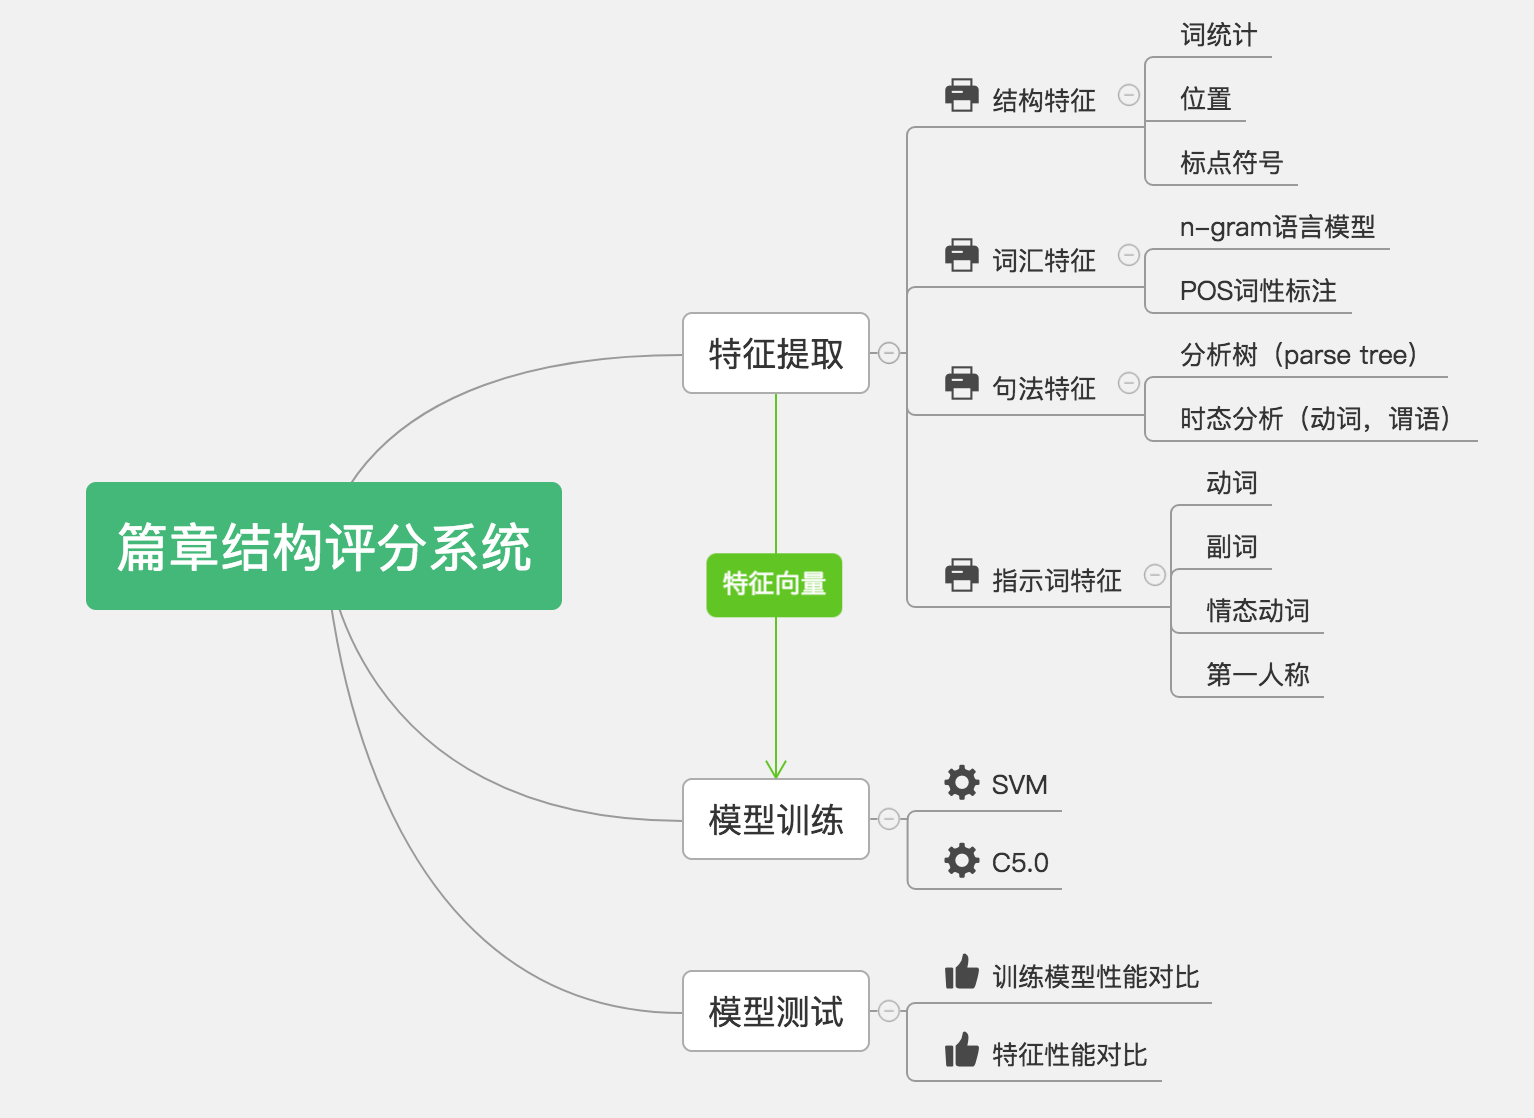
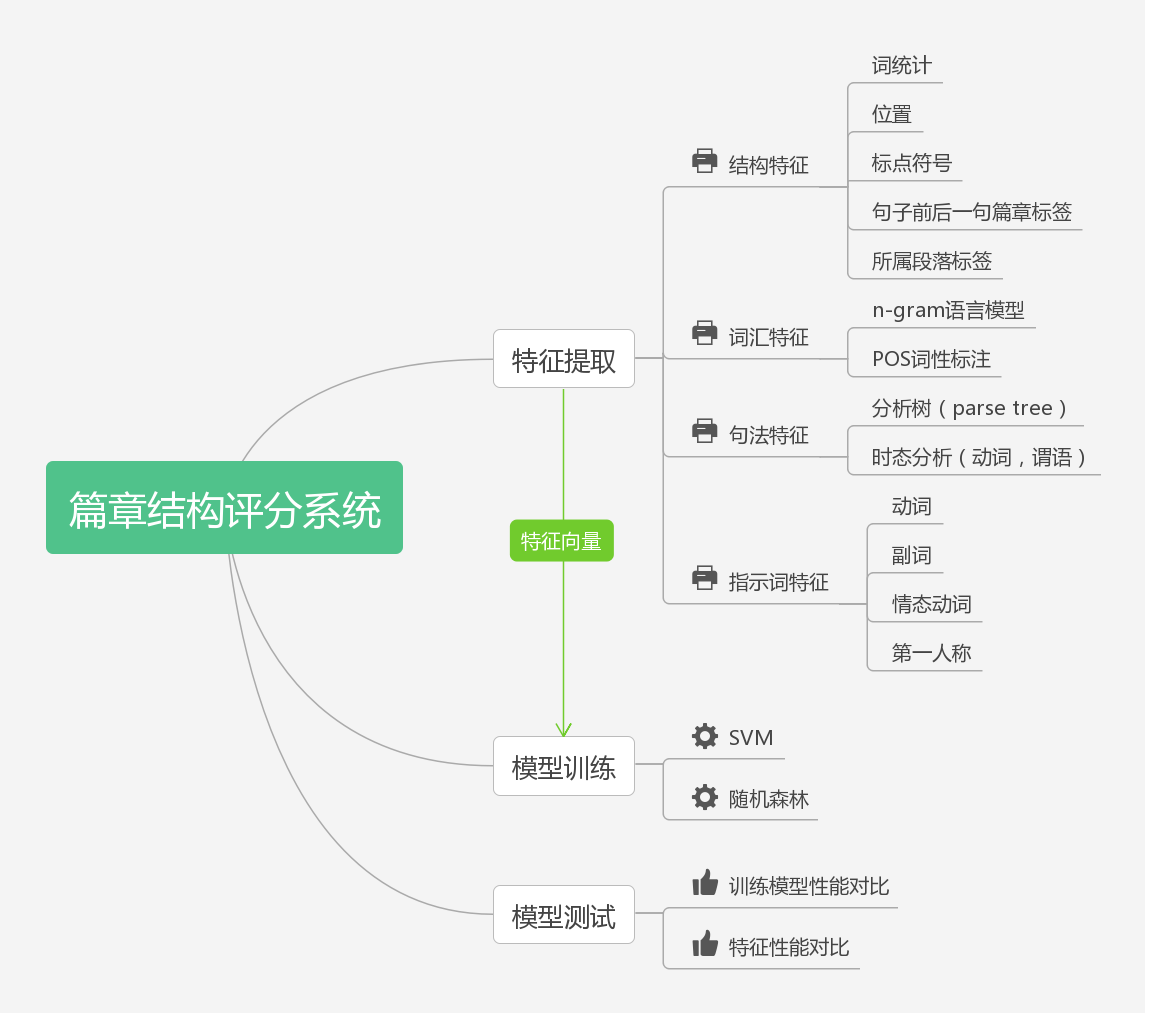
修改README和增加分析树图片

diff --git a/README.md b/README.md
@@ -11,15 +11,17 @@
 
 ## 三、总体流程
 
+### 3.1 篇章结构标签介绍
+
 目前的方案主要是判断篇章结构的完整度，一个完整的议论文文章应该包含以下篇章结构：
 
-### 3.1 开头段
+#### 3.1.1 开头段
 
 * 背景（background）：\<BG>\</BG>
 * 观点（point）：\<PT>\</PT>
 * 过渡句（transition）：\<TST>\</TST>
 
-### 3.2 理由段
+#### 3.1.2 理由段
 
 * 理由（reason）：\<RS>\</RS>
 * 理由解释（reason explanation）：\<REXP>\</REXP>
@@ -27,17 +29,17 @@
 * 例子解释（example explanation）：\<EEXP>\</EEXP>
 * 例子泛化（generalization）：\<GRL>\</GRL>
 
-### 3.3 让步段
+#### 3.1.3 让步段
 
 * 承认对方优点（admission）：\<ADM>\</ADM>
 * 反驳对方观点（retort）：\<RTT>\</RTT>
 
-### 3.4 总结段
+#### 3.1.4 总结段
 
 * 理由总结（sum reason）：\<SRS>\</SRS>
 * 观点重申（reaffirm）：\<RAFM>\</RAFM>
 
-### 3.5 无关段
+#### 3.1.5 无关段
 （与文章无关的句子，有没有这部分都不影响篇章结构分数）
 
 * 与文章无关（irrelevant）：\<IRL>\</IRL>
@@ -46,27 +48,33 @@
 
 篇章结构评分系统思维导图见image目录下的“篇章结构评分系统思维导图.png”
 
-### 3.6 特征提取
+### 3.2 特征提取
 
-#### 3.6.1 对于结构特征：
+#### 3.2.1 对于结构特征：
 
 * 利用NLTK对句子进行词分割，进而统计句子中词的个数;
 * 以段落的句子结束的标点符号进行分割句子，位置特征由两部分组成：句子所在段落位置和句子在段落中的位置；
-* 标点符号特征分为三类：句号、问号和感叹号。
+* 标点符号特征分为三类：句号、问号和感叹号；
+* 依据评分经验，我们将当前句子前后一句的篇章结构标签作为该句子的一个篇章结构特征，文章首句的前一个句子和末尾句的后一个句子的篇章结构标签设为0；
+* 设置句子所属段落标签：开头、理由、让步、总结。
 
-#### 3.6.2 对于词汇特征：
+#### 3.2.2 对于词汇特征：
 
 * 使用SRILM中的n-gram工具来训练语言模型，分别对不同类别的篇章结构进行训练，构建n-gram训练模型，然后再计算某个句子属于不同类别篇章结构的概率，将这个概率作为一个数值特征；
 * 使用NLTK中的POS工具对句子中的单词进行词性标注。
 
-#### 3.6.3 对于句法特征：
+#### 3.2.3 对于句法特征：
 
 * 使用NLTK中的Stanford分析器构建分析树（分析树图见image目录下的“分析树图.png”），我们提取分析树的深度作为一个数值特征，分析树如下图3所示；
 * 我们主要以一个句子中的动词和谓语的时态作为句子的时态，而动词和谓语的时态识别可以由词性标注步骤来完成。
 
-#### 3.6.4 对于指示词特征：
+#### 3.2.4 对于指示词特征：
 
 * 将一个句子中的动词、副词、情态动词以及第一人称代词与事先归纳的指示词表进行对比，统计一个指示词与所属类别之间的概率统计。
+
+### 3.3 模型训练与测试
+
+我们使用sklearn中的SVM和随机森林来训练模型，输入上面我们提取的特征组成的特征向量，训练好分类模型之后使用测试集数据进行测试，并计算准确度。
 
 ## 四、参考文献
 
@@ -78,4 +86,6 @@
 
 4.http://www.nltk.org/api/nltk.html
 
-5.https://ynuwm.github.io/2017/05/24/SRILM%E8%AE%AD%E7%BB%83%E8%AF%AD%E8%A8%80%E6%A8%A1%E5%9E%8B%E5%AE%9E%E6%88%98/
+5.http://scikit-learn.org/stable/modules/classes.html
+
+6.https://ynuwm.github.io/2017/05/24/SRILM%E8%AE%AD%E7%BB%83%E8%AF%AD%E8%A8%80%E6%A8%A1%E5%9E%8B%E5%AE%9E%E6%88%98/
